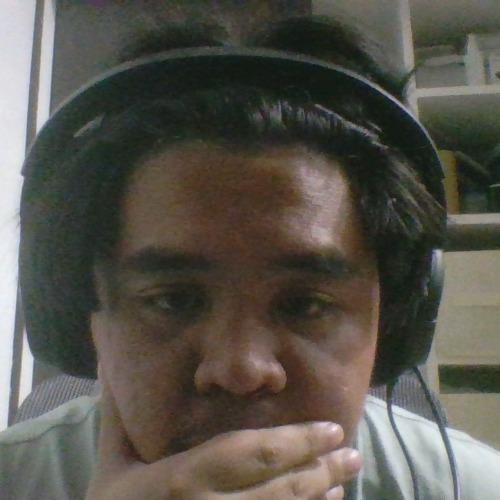
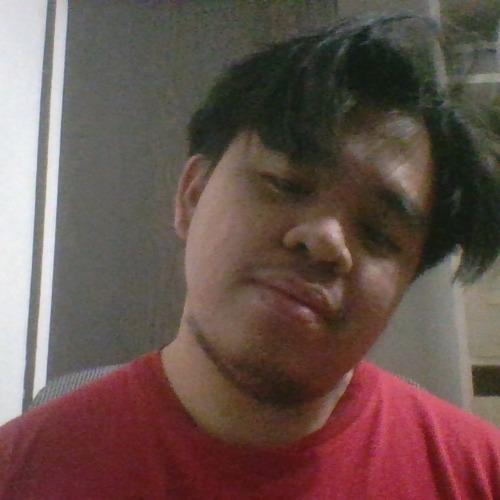
fix (api) : covered

diff --git a/spoofing_detection_api/app/services/spoof_detection/checkers/covered.py b/spoofing_detection_api/app/services/spoof_detection/checkers/covered.py
@@ -4,19 +4,25 @@ import numpy as np
 from app.core.utils import TBlendshapes
 from app.core.utils import TFaceLandmarks
 
-# ---------------------------------------------------------------------------
-# MediaPipe Face Mesh 468-point indices used for geometric checks
-# ---------------------------------------------------------------------------
-
 # Mouth Aspect Ratio (MAR) landmarks
 _MOUTH_UPPER_INNER = 13   # upper inner lip mid-point
 _MOUTH_LOWER_INNER = 14   # lower inner lip mid-point
 _MOUTH_LEFT_CORNER = 61   # left commissure
 _MOUTH_RIGHT_CORNER = 291  # right commissure
 
-# Mouth visibility sentinel landmarks (must stay within image bounds)
-_MOUTH_SENTINEL_INDICES = [13, 14, 61, 78, 291,
-                           308, 0, 17, 37, 267, 84, 181, 91, 146,]
+# Mouth visibility sentinel landmarks (mouth-specific only)
+_MOUTH_SENTINEL_INDICES = [13, 14, 61, 78, 291, 308, 84, 181, 91, 146]
+
+# Blendshape keys that indicate mouth activity / presence
+_MOUTH_BLENDSHAPE_KEYS = [
+    'jawOpen', 'mouthClose', 'mouthFunnel', 'mouthPucker',
+    'mouthLeft', 'mouthRight', 'mouthSmileLeft', 'mouthSmileRight',
+    'mouthStretchLeft', 'mouthStretchRight', 'mouthRollLower',
+    'mouthRollUpper', 'mouthPressLeft', 'mouthPressRight',
+]
+
+
+_MOUTH_BLENDSHAPE_SUM_THRESHOLD = 0.15  # sum below this → mouth not resolved
 
 # Eye Aspect Ratio (EAR) landmarks
 # Left eye:  outer=33, top=159, inner=133, bottom=145
@@ -28,10 +34,6 @@ _RIGHT_EYE = (362, 386, 263, 374)
 _MAR_OPEN_THRESHOLD = 0.3   # MAR >= this → mouth is open
 _EAR_CLOSED_THRESHOLD = 0.15  # EAR <= this → eye is closed
 
-
-# ---------------------------------------------------------------------------
-# Geometric helpers
-# ---------------------------------------------------------------------------
 
 def _dist(a: np.ndarray, b: np.ndarray) -> float:
     return float(np.linalg.norm(a.astype(float) - b.astype(float)))
@@ -80,10 +82,6 @@ def compute_eye_aspect_ratio(pixel_points: np.ndarray, eye: str = 'left') -> flo
     return vertical / horizontal
 
 
-# ---------------------------------------------------------------------------
-# Checker functions
-# ---------------------------------------------------------------------------
-
 def is_eyes_covered(
     blendshapes: TBlendshapes,
     pixel_points: np.ndarray | None = None,
@@ -103,11 +101,13 @@ def is_eyes_covered(
     :param pixel_points: Optional (468, 2) pixel-coordinate array.
     :return: True if either eye is covered / closed.
     """
+
+    # 0 = open, 1 = fully closed
     left_blink = blendshapes.get('eyeBlinkLeft', 0.0)
     right_blink = blendshapes.get('eyeBlinkRight', 0.0)
-
-    # Blendshape signal: both eyes closed simultaneously (blink or occlusion)
-    if left_blink > 0.5 and right_blink > 0.5:
+    print(f'Eye blink scores: left={left_blink:.2f}, right={right_blink:.2f}')
+    # if either eyes is closed
+    if left_blink > 0.3 or right_blink > 0.3:
         return True
 
     # Geometric EAR signal (secondary)
@@ -122,18 +122,27 @@ def is_eyes_covered(
 
 def is_mouth_covered(
     face_landmarks: TFaceLandmarks,
-    min_inbound_points: int = 10,
+    blendshapes: TBlendshapes,
+    pixel_points: np.ndarray | None = None,
+    min_inbound_points: int = 6,
 ) -> bool:
     """
     Return True if the mouth appears occluded or out-of-frame.
 
-    MediaPipe FaceLandmarker does not populate the ``visibility`` attribute
-    (it is always ``None``).  Instead we rely on whether the normalized (x, y)
-    coordinates of sentinel mouth landmarks fall within the [0, 1] image frame.
-    A landmark that lands outside that range is off-screen, meaning the mouth
-    is at least partially cropped or not reliably detected.
+    Three signals are checked in order:
+
+    1. **Blendshapes (primary)** — if the sum of all mouth-related blendshape
+       scores is near-zero, the model could not resolve the mouth region,
+       indicating occlusion.
+    2. **Geometric collapse (secondary)** — if ``pixel_points`` are provided,
+       the mouth landmark cluster must have a plausible bounding-box area
+       relative to the full face span.  A collapsed region suggests occlusion.
+    3. **Bounds check (tertiary)** — mouth-specific sentinel landmarks must
+       fall within the ``[0, 1]`` normalized image frame.
 
     :param face_landmarks: List of NormalizedLandmark from FaceLandmarker.
+    :param blendshapes: Blendshape score dict from MediaPipe FaceLandmarker.
+    :param pixel_points: Optional (468, 2) pixel-coordinate array.
     :param min_inbound_points: Minimum number of mouth landmarks that must be
         within [0, 1] bounds to consider the mouth visible.
     :return: True if mouth is likely covered / out of frame.
@@ -141,14 +150,35 @@ def is_mouth_covered(
     if not face_landmarks:
         return True  # no landmarks — face/mouth not visible
 
+    if blendshapes:
+        mouth_score_sum = sum(
+            blendshapes.get(key, 0.0) for key in _MOUTH_BLENDSHAPE_KEYS
+        )
+        if mouth_score_sum < _MOUTH_BLENDSHAPE_SUM_THRESHOLD:
+            return True
+
+    if pixel_points is not None and len(pixel_points) >= 468:
+        mouth_pts = pixel_points[_MOUTH_SENTINEL_INDICES]
+        mouth_w = float(mouth_pts[:, 0].max() - mouth_pts[:, 0].min())
+        mouth_h = float(mouth_pts[:, 1].max() - mouth_pts[:, 1].min())
+        mouth_area = mouth_w * mouth_h
+
+        face_w = float(pixel_points[:, 0].max() - pixel_points[:, 0].min())
+        face_h = float(pixel_points[:, 1].max() - pixel_points[:, 1].min())
+        face_area = face_w * face_h
+
+        if face_area > 0 and (mouth_area / face_area) < 0.005:
+            return True
+
     inbound = sum(
         1
         for idx in _MOUTH_SENTINEL_INDICES
         if 0.0 <= face_landmarks[idx].x <= 1.0
         and 0.0 <= face_landmarks[idx].y <= 1.0
     )
+
     print(
-        f'Mouth visibility check: {inbound} in-bounds points (threshold: {min_inbound_points})')
+        f'Mouth bounds check: {inbound} in-bounds points (threshold {min_inbound_points})')
     return inbound < min_inbound_points
 
 

diff --git a/spoofing_detection_api/app/core/utils.py b/spoofing_detection_api/app/core/utils.py
@@ -101,14 +101,6 @@ class MediaPipeUtils:
         if detection_result.face_blendshapes:
             for category in detection_result.face_blendshapes[0]:
                 blendshapes[category.category_name] = category.score
-        sample_landmark = face_landmarks[0]
-
-        print('visibility attribute exists:', hasattr(
-            sample_landmark, 'visibility'), sample_landmark.visibility)
-
-        print(dir(sample_landmark))
-        print('visibility:', sample_landmark.visibility)
-        print('presence:', getattr(sample_landmark, 'presence', None))
         pose: TPose = {}
         if detection_result.facial_transformation_matrixes:
             matrix = detection_result.facial_transformation_matrixes[0]

diff --git a/spoofing_detection_api/app/services/spoof_detection/detect.py b/spoofing_detection_api/app/services/spoof_detection/detect.py
@@ -50,7 +50,8 @@ def detect_spoof_service(uploaded_file: bytes) -> DetectionResult:
     if is_eyes_covered_check:
         raise ValueError(
             DetectionError.EYES_CLOSED.value)
-    is_mouth_covered_check = is_mouth_covered(face_landmarks)
+    is_mouth_covered_check = is_mouth_covered(
+        face_landmarks, blendshapes, pixel_points)
     if is_mouth_covered_check:
         raise ValueError(
             DetectionError.MOUTH_NOT_DETECTED.value)
